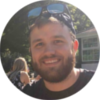
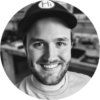
Update headshot (#6)
* Updated headshot

* Re-generated site content

diff --git a/docs/index.html b/docs/index.html
@@ -4,7 +4,7 @@
  <html lang="en"> 
 
 <head>
-	<meta name="generator" content="Hugo 0.26" />
+	<meta name="generator" content="Hugo 0.33" />
         <title></title>
     
     <meta charset="utf-8">
@@ -131,7 +131,7 @@ GPA: 3.34 | Dean&#39;s List</h4>
 	            <section class="section summary-section">
                 <h2 class="section-title"><i class="fa fa-user"></i>Career Profile</h2>
                 <div class="summary">
-                    <p>I am an electrical engineer with a passion for all things electronic. Since childhood, I
+                    <p><p>I am an electrical engineer with a passion for all things electronic. Since childhood, I
         have spent most of my time either tearing apart old gadgets or hacking together new creations of my own.
         This passion for tech exploration and innovation has had a strong impact on my career path.</p>
 
@@ -146,6 +146,7 @@ GPA: 3.34 | Dean&#39;s List</h4>
         startups prototype their tech ideas and in some cases bring those ideas to production. Now as CTO at Knocki,
         I get to do this every day! I work with a great team of engineers and developers to take wild new ideas off
         the whiteboard and onto the production line.</p>
+</p>
                 </div>
             </section>
 
@@ -394,7 +395,7 @@ interface</li>
         <div class="text-center">
                 
                 <small class="copyright">Designed with <i class="fa fa-heart"></i> by <a href="http://themes.3rdwavemedia.com" target="_blank">Xiaoying Riley</a> for developers</small><br>
-				<small class="copyright">2017 &copy; John Boyd IV</small>
+				<small class="copyright">2018 &copy; John Boyd IV</small>
         </div>
     </footer>
 
